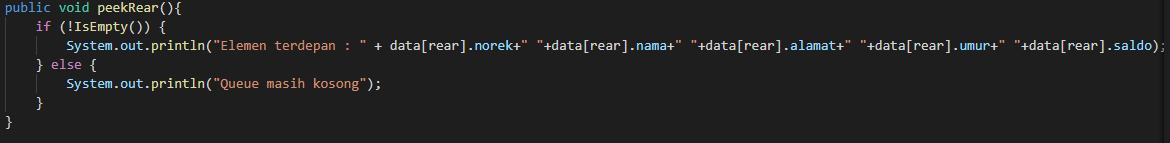
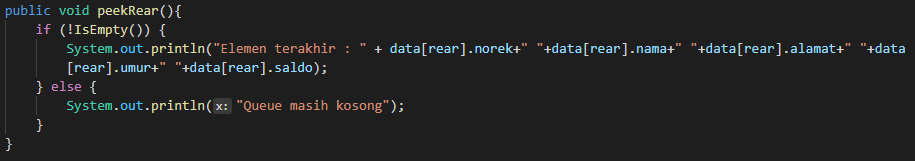
Update Laporan

diff --git a/Pertemuan 10/Praktikum2/Queue.java b/Pertemuan 10/Praktikum2/Queue.java
@@ -39,7 +39,7 @@ public class Queue {
 
     public void peekRear(){
         if (!IsEmpty()) {
-            System.out.println("Elemen terdepan : " + data[rear].norek+" "+data[rear].nama+" "+data[rear].alamat+" "+data[rear].umur+" "+data[rear].saldo);
+            System.out.println("Elemen terakhir : " + data[rear].norek+" "+data[rear].nama+" "+data[rear].alamat+" "+data[rear].umur+" "+data[rear].saldo);
         } else {
             System.out.println("Queue masih kosong");
         }

diff --git a/Pertemuan 10/LaporanPraktikum/laporan_praktikum_pertemuan10.md b/Pertemuan 10/LaporanPraktikum/laporan_praktikum_pertemuan10.md
@@ -66,7 +66,19 @@ queue overflow dan queue underflow, program dihentikan!
 
 2. Lakukan modifikasi program dengan menambahkan method baru bernama peekRear pada class Queue yang digunakan untuk mengecek antrian yang berada di posisi belakang! Tambahkan pula daftar menu 5. Cek Antrian paling belakang pada class QueueMain sehingga method peekRear dapat dipanggil!
 
-    **Jawab:** <img src = "img/2.2kodeQueue.png">
+    **Jawab:** 
+    
+    Kode
+
+    <img src = "img/2.2kodeQueue.png">
+    <img src = "img/2.2kode.png">
+    <img src = "img/2.2kode2.png">
+    
+    Output
+
+    <img src = "img/2.2run.png">
+    <img src = "img/2.2run2.png">
+
 
 ##  **TUGAS**
 1. **Kode Modifikasi**
